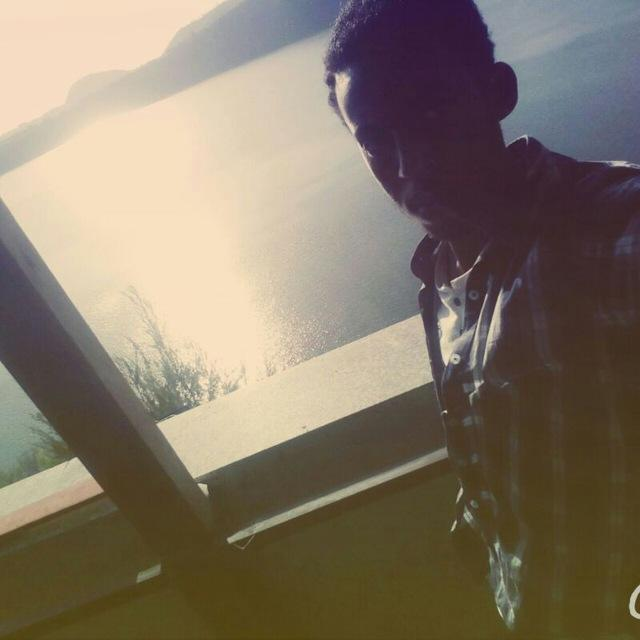
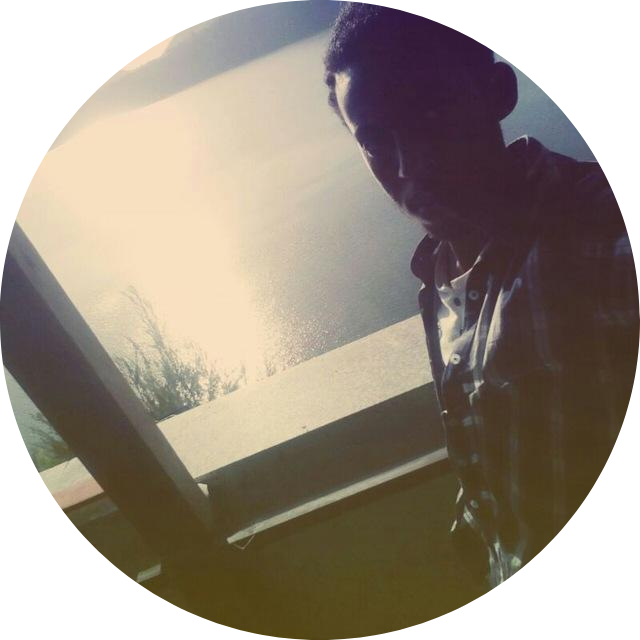
one blog file added (what is blog) ---status= finished

diff --git a/blogs/what_is_blog.html b/blogs/what_is_blog.html
@@ -1,0 +1,187 @@
+<!DOCTYPE html>
+<html lang="en">
+<head>
+    <meta charset="UTF-8">
+    <meta name="viewport" content="width=device-width, initial-scale=1.0">
+    <title>Abenezer Atnafu</title>
+</head>
+<body>
+    
+    <header>
+        <table  cellspacing="10" cellpadding="5">
+            <tr>
+                <td><a href="index.html">Abenezer Atnafu</a></td>
+                <td><img src="../assets/images/white.jpeg" alt="white" width="640px" height="10px"></td>
+                <td><a href="blog.html">Blog</a></td>
+                <td><a href="contact.html">Contact/About Me</a></td>
+                <td>Talks</td>
+                <td><a href="projects.html">Projects</a></td>
+                <td>Search</td>
+                <tr >
+                    <td colspan="7"><hr align="right" width="30%"></td>
+                </tr>
+            </tr>
+            
+        </table>
+    </header>
+
+    <table cellspacing="35" align="center" width="80%">
+        <tr>
+            <td>
+                <h1>What is blog?</h1>
+                <h3>How to write a blog</h3>
+                <br>
+                Last updated on Feb 27, 2020 19 min read 
+                <br><br>
+                <a href="https://www.t.me/AbenezerAtnafu"><img src="../assets/icons/telegram.svg" alt="telegram" width="30px" height="30px"></a>
+                <a href="https://www.instagram.com/abenealayu/?hl=en"><img src="../assets/icons/instagram.svg" alt="instagram" width="30px" height="30px"></a>
+                <a href="https://github.com/AbenezerAtnafu/"><img src="../assets/icons/github.svg" alt="githun" width="30px" height="30px"></a>
+                <a href="https://www.linkedin.com/in/abenezer-atnafu-4a1514193/"><img src="../assets/icons/linkedin.svg" alt="linkedin" width="30px" height="30px"></a>
+            
+            </td>
+            <td align="right">
[2 lines of base64/hex data omitted]
+            </td>
+        </tr>
+    </table>
+
+    <table align="center" width="70%">
+        <caption><h2>How to write a blog </h2></caption>
+        <tr>
+            <td>
+                <ol>
+                    <li><a href="#Is_blogging_just_writing">Is blogging just writing something</a></li>
+                    <li><a href="#what_Matters">What Matters in Your Article</a></li>
+                    <li><a href="#quality_vs_quantity">What’s better: Quality or quantity?</a></li>
+                </ol>
+            </td>
+        </tr>
+        <tr>
+            <td>
+                <p>As this is my first blog, I tried to see how many bloogers write their own blogs. 
+                   I have seen many programmer blogs. They are so intersting. On behalf of seeing, one 
+                   thing came to my mind. How many people are struglling in order to wirte their first blog?
+                   Now its time to share what I read and get from my mini-research. I hope it will help alot.
+                   <br><br>
+                   I will try to give some reviews.
+                   
+                </p>
+            </td>
+        </tr>
+        
+        <tr id="Is_blogging_just_writing">
+            <td>
+                <h2>Is blogging just writing something</h2>
+                <p>
+                    Blogging is many things (that is, if you can actually define what a “blog” is these 
+                    days) but a life of feet-up-eating-Nutella-from-a-jar-and-rolling-in-the-dough 
+                    it is NOT. <strong>Good, hard-working, revenue generating bloggers:</strong>
+                </p>
+
+                <ul>
+                    <li>write every day (even if they aren’t posting daily, they’re still building the 
+                        habit and writing in one way or another)</li>
+                    <li>connect with other bloggers and build their network</li>
+                    <li>create solutions for the biggest problems their readers bring to them</li>
+                    <li>answer questions and build community via any one or all of the following:
+                        <ul>
+                        <li>email</li>
+                        <li>Facebook – their Business Page, public posts, groups</li>
+                        <li>Instagram – their account and others who tag them</li>
+                        <li>Twitter – public Tweets, Twitter Chats</li>
+                        <li>Comments – on their blog and guest blogs they write</li>
+                        <li>Quora</li>
+                        <li>Reddit</li>
+                        <li>Private Forums</li>
+                        <li>snail mail</li>
+                        </ul>
+                    </li>
+                    <li>attend events</li>
+                    <li>focus on building their email list</li>
+                    <li>manage advertising campaigns</li>
+                    <li>act as their own (or hire out) PR Maven, Business Manager, Graphic Designer, Operations Specialist, Accountant, Project Manager, and SEO Expert</li>
+                    <li>learn more technology than they ever imagined they would</li>
+                    <li>hire subcontractors and entire teams</li>
+                </ul>
+
+            </td>
+        </tr>
+
+
+        <tr id="what_Matters">
+            <td>
+                <h2>What Matters in Your Article</h2>
+                <p>
+                    Personally, I like to write as if I'm talking to the reader. I use words like “I,”
+                     “you,” and “we” in the hopes that it's engaging to readers.
+                </p>
+                <p>
+                    Other than that, I try to engage people by asking questions. Sounds hard, right? 
+                    Well it really isn't. (See what I did there?) Many people like my style of writing, 
+                    but I've also had complaints that my style is too informal, making it difficult to 
+                    follow.
+                </p>
+
+            </td>
+        </tr>
+
+        <tr id="quality_vs_quantity">
+            <td>
+                <h2>What’s better: Quality or quantity?</h2>
+                <p>
+                    If you only focus on quality, you’ll find yourself low on time (i.e. high on burnout) and 
+                    low on readership. But if you only focus on quantity, you’ll find yourself low on respect 
+                    and ultimately low on sales.
+                </p>
+                <p>
+                    But if you use both together, you are going to get the best of both worlds.
+                    My suggestion is to keep a combination of pillar posts and speed posts. Target a niche, 
+                    and try to cover all important updates, news, and tutorials in that niche.
+                    This will give you a quality blog with a lot of blog posts.
+                </p>
+            </td>
+        </tr>
+
+        <br><br>
+        <tr>
+            <td>
+                <hr align="center" >
+                <table align="center" width="80%">
+                    <tr >
+                        <td >
+                            <img src="../assets/images/abene.jpg" alt="abene" width="80px" height="80px">
+                            
+                        </td>
+                        <td >
+                            <p><strong>Abenezer Atnafu</strong></p>
+                            <p>Software Engineer and Programmer</p> 
+                            <p>Addis Ababa Institute of Technology</p> 
+                        </td>
+                    </tr>
+                    <tr>
+                        <td>
+                            <a href="https://www.t.me/AbenezerAtnafu"><img src="../assets/icons/telegram.svg" alt="telegram" width="30px" height="30px"></a>
+                            <a href="https://www.instagram.com/abenealayu/?hl=en"><img src="../assets/icons/instagram.svg" alt="instagram" width="30px" height="30px"></a>
+                            <a href="https://github.com/AbenezerAtnafu/"><img src="../assets/icons/github.svg" alt="githun" width="30px" height="30px"></a>
+                            <a href="https://www.linkedin.com/in/abenezer-atnafu-4a1514193/"><img src="../assets/icons/linkedin.svg" alt="linkedin" width="30px" height="30px"></a>
+                        </td>
+                    </tr>
+                </table>
+            </td>
+        </tr>
+    </table>
+
+    <footer>
+        <hr align="center" width="70%">
+        <p align="center">LICENSE: CC-BY-SA </p>
+        <img src="../assets/images/white.jpeg" alt="white" width="540px" height="10px">
+        Developed by Abenezer A. &copy; &nbsp; &nbsp; &nbsp; &nbsp; &nbsp;
+        <img src="../assets/images/white.jpeg" alt="white" width="250px" height="10px">  
+        <a href="#" >Go back to top <img src="../assets/icons/up-arrow.svg" width="20px" height="20px" alt="back to home" ></a>
+    </footer>
+
+
+
+</body>
+</html>

diff --git a/index.html b/index.html
@@ -28,7 +28,7 @@
     <table align="center"  cellspacing="20" cellpadding="15" width="80%">
         <tr>
             <td rowspan="2">
-                <img src="https://photos.google.com/album/AF1QipPMu42dOiMTDghrkmi4SLthPbugjv-q1IMdMfTC/photo/AF1QipOcUr0ZP0-5YM_WwOUReqgcp3zFDV1c1hwPiL5L" width="200cm" height="200cm" alt="vaccation in Debre Zeit">
+                <img src="./assets/images/abene.jpg" width="200cm" height="200cm" alt="vaccation in Debre Zeit">
                 <h3 align="center">Abenezer Atnafu</h3>
                 <h4 align="center">Software Engineer and Programmer</h4>
                 <h4 align="center">Addis Ababa Institute of Technology</h4>
@@ -65,6 +65,7 @@
                 <ul>   
                     <li>Data Science</li>
                     <li>Web Technologies</li>
+                    <li>Programming</li>
                     <li>Education</li>
                     <li>Volunteering</li>
                     <li>Video Games</li>
@@ -73,14 +74,20 @@
             </td>
             <td>
                 Education 
-                <ul>   
-                    <li> Data Science</li>
-                    <li>Web Technologies</li>
-                    <li>Education</li>
-                    <li>Volunteering</li>
-                    <li>Video Games</li>
-                    <li>Soccer </li>
-                </ul>
+                <dl>
+                    <dt><strong>
+                        BsC in Software Engineering (on going)
+                    </strong></dt>
+                    <dd>
+                        Addis Ababa Institute of Technology
+                    </dd>
+                    <dt>
+                        <strong>High School and Preparatory Diploma</strong>
+                    </dt>
+                    <dd>Akaki Adventist School</dd>
+                    <dt><strong> Web Design Certficate </strong></dt>
+                    <dd>Coursera</dd>
+                </dl>            
             </td>
         </tr>
 
@@ -88,49 +95,11 @@
 
     <br><br><br>
 
-    
-        <table bgcolor="skyblue">
-            <tbody>
-            <tr>
-                <td>
-                    <div>
-                        <tr>
-                            <td><a href="#fourth"><img src="./assets/icons/left-arrow.svg" alt="left-arrow" width="10rem" height="10rem"></a></td>
-                            <td width="100%">
-                                Assistant Director of the Center for Spoken Language Understanding. I was nominated 
-                                for a distinguished faculty award for outstanding teaching, and was awarded an excellence in graduate 
-                                education award from the OHSU School of Medicine. My research has been published in Pediatrics, 
-                                Autism Research, and other peer-reviewed journals.
-                            </td>
-                            <td><a href="#second"><img src="./assets/icons/right-arrow.svg" alt="right-arrow" width="10rem" height="10rem"></a></td>
-                        </tr>
-                    </div>  
-                </td>
-                <td>
-                    <div>
-                        <tr>
-                            <td><a href="#first"><img src="./assets/icons/left-arrow.svg" alt="left-arrow" width="10%" height="10%"></a></td>
-                            <td width="70%">
-                                Abenezer atnafu Lorem ipsum dolor sit amet consectetur adipisicing elit. Laboriosam consequuntur magni, voluptatibus excepturi voluptate, recusandae deserunt perspiciatis ducimus eligendi nobis dicta dignissimos dolorum dolore?
-                            </td>
-                            <td><a href="#third"><img src="./assets/icons/right-arrow.svg" alt="right-arrow" width="10%" height="10%"></a></td>
-                        </tr>
-                    </div>
-                </td>
-                <td></td>
-            </tr>
-            </tbody>
-        </table>
-    
-        <br>
-        <br>
-        <br>
-        <br>
-        <br>
+
 
     <table cellpadding="15" cellspacing="50" align="center">
         <caption><h2>Lately</h2></caption>
-        <td >From my blog </td>
+        <td ><strong>From my blog</strong>  </td>
         <td>
             <table>
                 <tr>
@@ -153,7 +122,7 @@
         </td>
         
         <tr>
-            <td>About Me</td>
+            <td> <strong>About Me</strong> </td>
             <td>
                 <table>
                     <tr>
@@ -175,7 +144,7 @@
             </td>
         </tr>
         <tr>
-            <td>From my gallery</td>
+            <td> <strong>From my gallery</strong> </td>
             <td>
                 <table>
                     <tr>

diff --git a/contact.html b/contact.html
@@ -180,7 +180,8 @@
                         </tr>
             
                         <tr>
-                            <td colspan="2"><input type="submit" value="send"></td>
+                            <td><input type="submit" value="send"></td>
+                            <td><input type="reset" value="Reset"></td>
                         </tr>
                         
                     </table>
